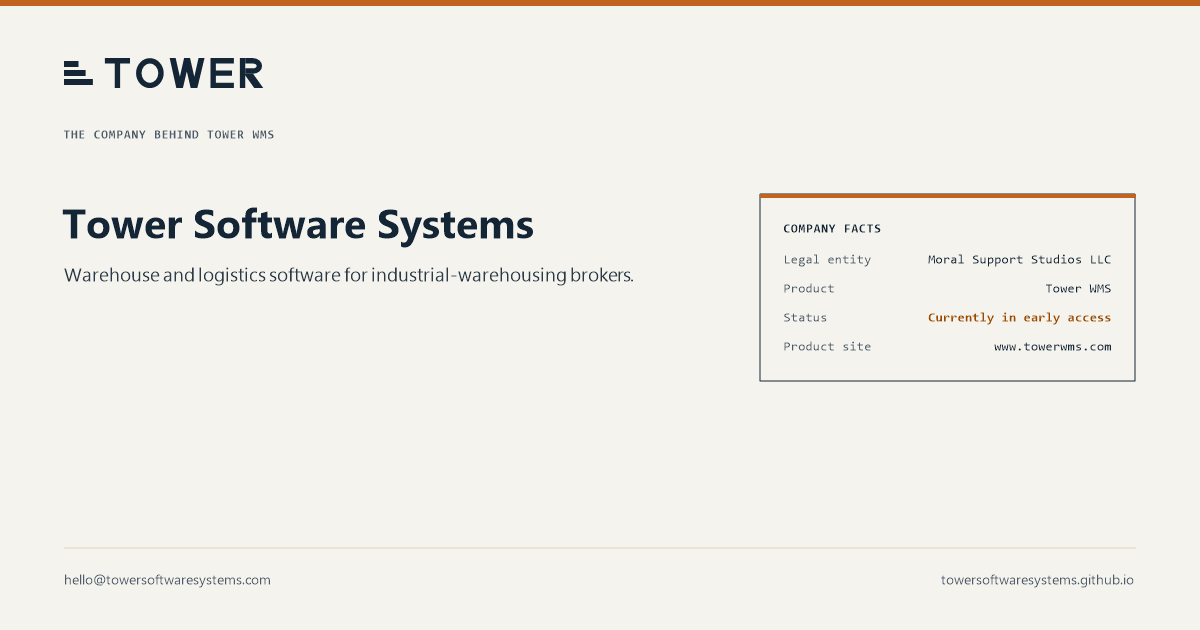
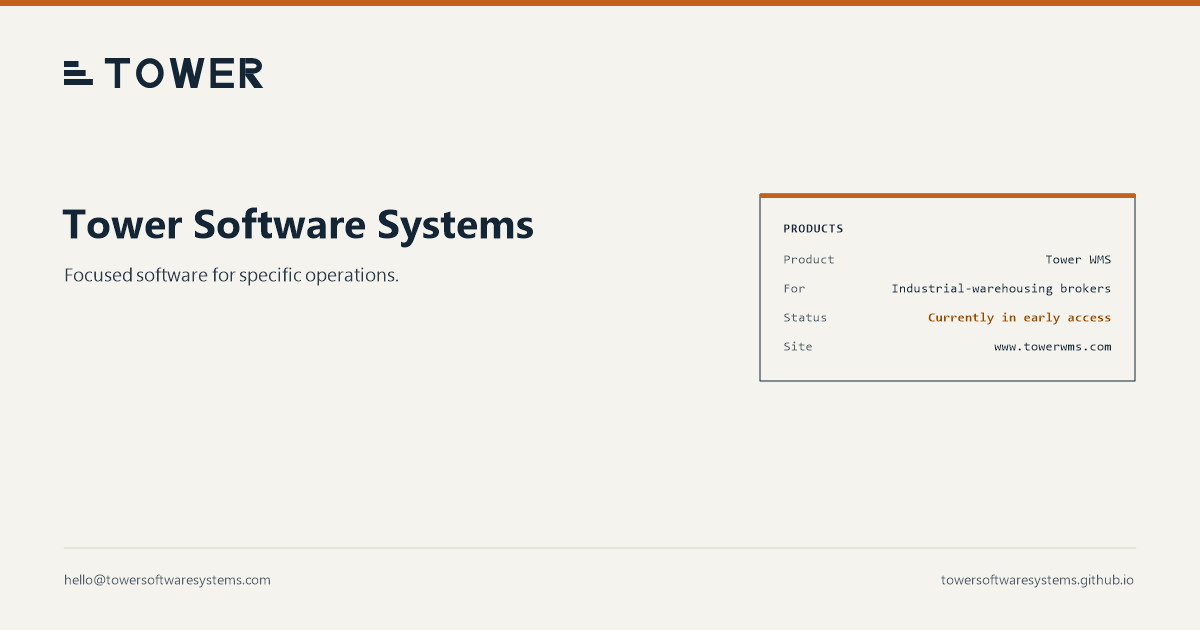
Make the site the umbrella for the Tower products
The page now leads with the company and lists its products, rather than
introducing the company as the legal wrapper of one product.

- Hero: the company name, the company line "Focused software for specific
  operations." and a note that each product has its own site. The legal-entity
  line moves to the footer only (it was already there).
- The hero record becomes a Products card (product, audience, status, site),
  and "What we make" becomes a Products section with one entry per product in
  the house object style. Tower WMS keeps its positioning line, its system-of-
  record sentence, its status and its link; the workflow detail, the "not"
  block and the pricing and Order Form wording stay on www.towerwms.com.
- Title, descriptions, image alt text and the sharing card drop "The company
  behind Tower WMS" and the legal-entity row; og.png is regenerated.
- AGENTS.md gains the umbrella rules, the claim inventory is rewritten for the
  new page, and the 404 lede no longer calls Tower WMS "its product".

Checks: the accessibility script's expected home-page title changes with the
title itself, and the contrast-pair notes in scripts/validate.mjs name the new
selectors. No threshold or rule changed.

diff --git a/site/index.html b/site/index.html
@@ -3,8 +3,8 @@
   <head>
     <meta charset="UTF-8">
     <meta name="viewport" content="width=device-width, initial-scale=1.0">
-    <title>Tower Software Systems | The company behind Tower WMS</title>
-    <meta name="description" content="Tower Software Systems, a trade name of Moral Support Studios LLC, makes Tower WMS for industrial-warehousing brokers. Tower WMS is currently in early access.">
+    <title>Tower Software Systems | Focused software for specific operations</title>
+    <meta name="description" content="Tower Software Systems makes focused software for specific operations. Tower WMS, for industrial-warehousing brokers, is currently in early access.">
     <meta name="theme-color" content="#f5f3ed">
     <meta name="color-scheme" content="light">
     <meta name="robots" content="index,follow">
@@ -12,18 +12,18 @@
     <link rel="icon" href="/favicon.svg" type="image/svg+xml">
     <meta property="og:type" content="website">
     <meta property="og:site_name" content="Tower Software Systems">
-    <meta property="og:title" content="Tower Software Systems | The company behind Tower WMS">
-    <meta property="og:description" content="The company behind Tower WMS, software for industrial-warehousing brokers. Tower WMS is currently in early access.">
+    <meta property="og:title" content="Tower Software Systems | Focused software for specific operations">
+    <meta property="og:description" content="Focused software for specific operations. Tower WMS, for industrial-warehousing brokers, is currently in early access.">
     <meta property="og:url" content="https://towersoftwaresystems.github.io/">
     <meta property="og:image" content="https://towersoftwaresystems.github.io/og.png">
     <meta property="og:image:width" content="1200">
     <meta property="og:image:height" content="630">
-    <meta property="og:image:alt" content="Tower Software Systems, the company behind Tower WMS. Warehouse and logistics software for industrial-warehousing brokers. Legal entity: Moral Support Studios LLC. Tower WMS is currently in early access.">
+    <meta property="og:image:alt" content="Tower Software Systems: focused software for specific operations. Products: Tower WMS, for industrial-warehousing brokers, currently in early access, at www.towerwms.com.">
     <meta name="twitter:card" content="summary_large_image">
-    <meta name="twitter:title" content="Tower Software Systems | The company behind Tower WMS">
-    <meta name="twitter:description" content="The company behind Tower WMS, software for industrial-warehousing brokers. Tower WMS is currently in early access.">
+    <meta name="twitter:title" content="Tower Software Systems | Focused software for specific operations">
+    <meta name="twitter:description" content="Focused software for specific operations. Tower WMS, for industrial-warehousing brokers, is currently in early access.">
     <meta name="twitter:image" content="https://towersoftwaresystems.github.io/og.png">
-    <meta name="twitter:image:alt" content="Tower Software Systems, the company behind Tower WMS. Warehouse and logistics software for industrial-warehousing brokers. Legal entity: Moral Support Studios LLC. Tower WMS is currently in early access.">
+    <meta name="twitter:image:alt" content="Tower Software Systems: focused software for specific operations. Products: Tower WMS, for industrial-warehousing brokers, currently in early access, at www.towerwms.com.">
     <link rel="stylesheet" href="/styles.css">
   </head>
   <body>
@@ -50,7 +50,7 @@
           <svg class="lockup" viewBox="0 0 664 100" role="img" aria-label="Tower Software Systems"><use href="#tower-lockup"></use></svg>
         </a>
         <nav class="site-nav" aria-label="Primary">
-          <a href="#product">What we make</a>
+          <a href="#products">Products</a>
           <a href="#contact">Contact</a>
         </nav>
       </div>
@@ -60,47 +60,38 @@
       <section class="section hero" id="company" aria-labelledby="hero-title">
         <div class="shell hero-grid">
           <div class="hero-copy">
-            <p class="label">The company behind Tower WMS</p>
             <h1 id="hero-title">Tower Software Systems</h1>
-            <p class="lede">Warehouse and logistics software for industrial-warehousing brokers.</p>
-            <p class="measure hero-legal">Tower Software Systems is a trade name of Moral Support Studios LLC, a Missouri limited liability company. Tower WMS is a product of Tower Software Systems.</p>
-            <p class="cta-row"><a class="button" href="https://www.towerwms.com/">Go to www.towerwms.com</a></p>
+            <p class="lede">Focused software for specific operations.</p>
+            <p class="measure">Each Tower product has its own site, which holds its details and how to get started.</p>
           </div>
 
           <figure class="artifact record">
-            <figcaption class="artifact-head"><span class="label">Company facts</span></figcaption>
+            <figcaption class="artifact-head"><span class="label">Products</span></figcaption>
             <dl class="artifact-body">
               <div><dt>Product</dt><dd>Tower WMS</dd></div>
+              <div><dt>For</dt><dd>Industrial-warehousing brokers</dd></div>
               <div><dt>Status</dt><dd class="record-status">Currently in early access</dd></div>
-              <div><dt>Product site</dt><dd><a href="https://www.towerwms.com/">www.towerwms.com</a></dd></div>
-              <div><dt>Email</dt><dd><a href="mailto:hello@towersoftwaresystems.com">hello@towersoftwaresystems.com</a></dd></div>
-              <div><dt>GitHub</dt><dd><a href="https://github.com/TowerSoftwareSystems" aria-label="TowerSoftwareSystems on GitHub">TowerSoftwareSystems</a></dd></div>
+              <div><dt>Site</dt><dd><a href="https://www.towerwms.com/">www.towerwms.com</a></dd></div>
             </dl>
-            <p class="meta record-note">Writing starts a conversation only. It does not create an account or guarantee access.</p>
           </figure>
         </div>
       </section>
 
-      <section class="section product" id="product" aria-labelledby="product-title">
+      <section class="section product" id="products" aria-labelledby="products-title">
         <div class="shell">
           <p class="label">What we make</p>
-          <h2 id="product-title">Tower WMS</h2>
-          <p class="lede measure">Marked cargo in. Ticketed cargo out. Billable days in between.</p>
-          <p class="measure">Tower WMS is the system of record for industrial-warehousing brokers: receiving, storage-day billing and release control for project cargo — ingots, reels, bundles, heat-numbered stock.</p>
-          <p class="measure">Five moments, one record: receive, store, clock, release, bill. Each step works from the record the steps before it wrote, and a person reviews billing before invoice handoff.</p>
+          <h2 id="products-title">Products</h2>
 
-          <div class="not-block">
-            <h3>What Tower WMS is not</h3>
-            <p>Not pick-and-pack. Not parcel. Not a TMS. If the cargo doesn't carry marks or heat numbers, Tower WMS is the wrong tool.</p>
-          </div>
-
-          <div class="status-block" id="status">
-            <p class="label">Status</p>
-            <h3 id="status-title">Currently in early access.</h3>
-            <p>Tower WMS is in early access: a new product, still changing, with no general-availability date set. Its prices are published at <a href="https://www.towerwms.com/pricing/">www.towerwms.com/pricing/</a>, and a subscription starts with a signed Order Form.</p>
-          </div>
-
-          <p class="measure product-route">The workflow and interface captures are on the product’s own site, <a href="https://www.towerwms.com/">www.towerwms.com</a>. Getting started with Tower WMS happens there too.</p>
+          <article class="artifact product-entry" aria-labelledby="tower-wms-title">
+            <div class="product-entry-head">
+              <h3 id="tower-wms-title">Tower WMS</h3>
+              <p class="label entry-status">Currently in early access</p>
+            </div>
+            <p class="lede measure">Marked cargo in. Ticketed cargo out. Billable days in between.</p>
+            <p class="measure">Tower WMS is the system of record for industrial-warehousing brokers: receiving, storage-day billing and release control for project cargo — ingots, reels, bundles, heat-numbered stock.</p>
+            <p class="measure">Its workflow, interface captures, prices and how to get started are on its own site.</p>
+            <p class="cta-row"><a class="button" href="https://www.towerwms.com/">Go to www.towerwms.com</a></p>
+          </article>
         </div>
       </section>
 

diff --git a/site/styles.css b/site/styles.css
@@ -284,10 +284,6 @@ li {
   align-items: center;
 }
 
-.hero-copy .label {
-  margin-bottom: 24px;
-}
-
 .hero-copy h1 {
   margin-bottom: 24px;
 }
@@ -295,10 +291,6 @@ li {
 .hero-copy .lede {
   max-width: 68ch;
   margin-bottom: 24px;
-}
-
-.hero-legal {
-  margin-bottom: 32px;
 }
 
 .button {
@@ -374,61 +366,31 @@ li {
   font-weight: 700;
 }
 
-/* What we make ----------------------------------------------------------- */
+/* Products -------------------------------------------------------------- */
 
 .product {
   background: var(--panel);
   border-block: 1px solid var(--hairline);
 }
 
-/* Here the lede introduces two paragraphs rather than a list or a figure, so it sits
-   closer to them than the house 48px. The lede is itself a .measure, so the rule below
-   also gives the first paragraph a 16px margin-top, which collapses into these 24px. */
-.section.product > .shell > .lede {
-  margin-bottom: 24px;
-}
-
-.product .measure + .measure {
-  margin-top: 16px;
-}
-
-.not-block {
-  margin-top: 48px;
+/* One entry per product, in the house object style. A second product is a second
+   .product-entry, spaced from the first by the same margin-top. */
+.product-entry {
+  margin-top: 32px;
   padding: 32px;
-  border: 1px solid var(--ink);
-  border-radius: 2px;
 }
 
-.not-block h3 {
-  margin-bottom: 16px;
+.product-entry-head {
+  display: flex;
+  flex-wrap: wrap;
+  align-items: baseline;
+  justify-content: space-between;
+  gap: 8px 24px;
 }
 
-.not-block p {
-  max-width: 68ch;
-  color: var(--ink);
-}
-
-.status-block {
-  margin-top: 32px;
-  padding: 24px;
-  background: var(--paper);
-  border-left: 4px solid var(--orange);
-}
-
-.status-block .label {
-  margin-bottom: 16px;
-}
-
-.status-block h3 {
-  margin-bottom: 16px;
-}
-
-.status-block p {
-  max-width: 68ch;
-}
-
-.product-route {
-  margin-top: 32px;
+/* The entry's status, in the record's one status accent: --orange-text at text size. */
+.product-entry .entry-status {
+  color: var(--orange-text);
 }
 
 /* Contact ---------------------------------------------------------------- */
@@ -490,7 +452,7 @@ li {
     gap: 48px;
   }
 
-  .artifact {
+  .record {
     max-width: 360px;
   }
 }
@@ -512,7 +474,7 @@ li {
     margin-top: 48px;
   }
 
-  .not-block {
+  .product-entry {
     padding: 24px;
   }
 

diff --git a/site/404.html b/site/404.html
@@ -45,7 +45,7 @@
         <div class="shell">
           <p class="label">Error 404 — page not found</p>
           <h1 id="page-title">That page is not here.</h1>
-          <p class="lede measure">The address may be mistyped, or the page may never have existed. This site is a single page about Tower Software Systems and its product, Tower WMS, which is currently in early access.</p>
+          <p class="lede measure">The address may be mistyped, or the page may never have existed. This site is a single page about Tower Software Systems and what it makes. Tower WMS is currently in early access.</p>
           <div class="prose">
             <h2>Where to go instead</h2>
             <ul>

diff --git a/docs/claim-inventory.md b/docs/claim-inventory.md
@@ -4,27 +4,23 @@ Every factual statement on https://towersoftwaresystems.github.io/ and the publi
 
 | # | Claim on the site (where) | Public citation |
 |---|---|---|
-| 1 | "Warehouse and logistics software for industrial-warehousing brokers." (home hero lede; sharing card lede; "software for industrial-warehousing brokers" in the og/twitter descriptions; the full lede in the og/twitter image alt text) | GitHub organization profile, github.com/TowerSoftwareSystems: description "Warehouse and logistics software for industrial-warehousing brokers" |
-| 2 | "Tower Software Systems is a trade name of Moral Support Studios LLC, a Missouri limited liability company." (home hero; footer on both pages; meta description; sharing card "Legal entity" row and image alt text) | Tower WMS website (www.towerwms.com) Terms page: "Tower WMS is operated by Tower Software Systems, a trade name of Moral Support Studios LLC, a Missouri limited liability company." Established fact: Tower Software Systems is a registered fictitious (trade) name of Moral Support Studios LLC |
-| 3 | "Tower WMS is a product of Tower Software Systems." Also its derivatives: "The company behind Tower WMS" (hero label, page title, sharing card); the "Product: Tower WMS" fact row; "makes Tower WMS" (meta description) | Tower WMS website (www.towerwms.com) footer, every page: "Tower WMS is a product of Tower Software Systems" |
-| 4 | "Currently in early access" (Company facts "Status" row; status heading; 404 lede; meta and sharing descriptions; sharing card) | Tower WMS website (www.towerwms.com) home page, Status: "Currently in early access." |
-| 5 | "Tower WMS is in early access: a new product, still changing, with no general-availability date set." (status block) | Tower WMS website (www.towerwms.com) home page, Status section, verbatim |
-| 6 | "Its prices are published at www.towerwms.com/pricing/, and a subscription starts with a signed Order Form." (status block; 404 "Tower WMS prices.") | Tower WMS website (www.towerwms.com) home page, Status: "Prices are published, and a subscription starts with a signed Order Form."; Pricing page, www.towerwms.com/pricing/ |
-| 7 | "Marked cargo in. Ticketed cargo out. Billable days in between." (product lede) | Tower WMS website (www.towerwms.com) home page headline |
-| 8 | "Tower WMS is the system of record for industrial-warehousing brokers: receiving, storage-day billing and release control for project cargo — ingots, reels, bundles, heat-numbered stock." (What we make) | Tower WMS website (www.towerwms.com) home page, hero |
-| 9 | "Five moments, one record: receive, store, clock, release, bill." (What we make) | Tower WMS website (www.towerwms.com) home page, Workflow: heading "Five moments, one record." and its five step names |
-| 10 | "Each step works from the record the steps before it wrote" (What we make) | Tower WMS website (www.towerwms.com) home page, Workflow |
-| 11 | "a person reviews billing before invoice handoff" (What we make; a paraphrase in the active voice) | Tower WMS website (www.towerwms.com) home page, Workflow, Bill: "…then reviewed by a person before invoice handoff." |
-| 12 | "Not pick-and-pack. Not parcel. Not a TMS. If the cargo doesn't carry marks or heat numbers, Tower WMS is the wrong tool." (What Tower WMS is not) | Tower WMS website (www.towerwms.com) home page, Fit, "What Tower WMS is not" |
-| 13 | "The workflow and interface captures are on the product’s own site, www.towerwms.com." (What we make; 404 "Where to go instead") | Tower WMS website (www.towerwms.com) home page Workflow and Evidence sections |
-| 14 | "Getting started with Tower WMS happens there too." and "Use “Get started” on www.towerwms.com. It opens an email with a few questions about your operation." (What we make; Contact; 404 "how to get started") | Tower WMS website (www.towerwms.com) home page, hero: "Get started" … "Opens an email … with a few questions about your operation." |
-| 15 | Company email hello@towersoftwaresystems.com (Company facts; Contact; footer; 404; sharing card) | GitHub organization profile email: hello@towersoftwaresystems.com |
-| 16 | "Writing starts a conversation only. It does not create an account or guarantee access." (Company facts) and "Writing to this address starts a conversation only. It does not create an account, place an order, create an agreement, or guarantee access." (Contact; 404 Contact) | Wording from the Tower WMS website (www.towerwms.com) Terms page, "Getting-started messages", applied to this site's address. Established fact: email to the company creates no account, order, agreement or access |
-| 17 | support@towerwms.com is for "Existing Tower WMS customers and users" (Contact; 404) | Tower WMS website (www.towerwms.com) Terms page: "support@towerwms.com remains reserved for existing customers and users." |
-| 18 | Product site www.towerwms.com (Company facts; hero button; product-route paragraph; Contact getting-started row; footer; 404 list; sharing card "Product site" row) | Established fact: the Tower WMS website is https://www.towerwms.com/ |
-| 19 | GitHub: TowerSoftwareSystems (Company facts; footer) | github.com/TowerSoftwareSystems |
-| 20 | "© 2026 Tower Software Systems" (footer) | Tower WMS website (www.towerwms.com) footer: "© 2026 Tower Software Systems" |
-| 21 | "This site has no accounts, sets no cookies, and runs no analytics or tracking scripts." (footer) | Established fact: this site's pages contain no forms, scripts or third-party requests, checked by `scripts/validate.mjs` in this repository; GitHub Pages responses set no cookies (checked 2026-10-11) |
-| 22 | "It is hosted on GitHub Pages" (footer) | Established fact: served by GitHub Pages at towersoftwaresystems.github.io |
-| 23 | "GitHub logs and stores each visitor’s IP address for security purposes" (footer) | GitHub Docs, "What is GitHub Pages?", Data collection section (checked 2026-10-11) |
-| 24 | "This site is a single page about Tower Software Systems and its product, Tower WMS…" (404) | Established fact: this site has one content page and an error page |
+| 1 | "Focused software for specific operations." (home hero lede; page title; meta, og and twitter descriptions; sharing card lede; og/twitter image alt text) | Established fact: the company's description of what it makes. Its current product is software for one specific operation: Tower WMS website (www.towerwms.com) home page, hero, "the system of record for industrial-warehousing brokers" |
+| 2 | "Each Tower product has its own site, which holds its details and how to get started." (home hero) | Established fact: Tower WMS, the company's current product, has its own site, https://www.towerwms.com/, with its workflow, interface captures, prices and "Get started" |
+| 3 | "Tower Software Systems is a trade name of Moral Support Studios LLC, a Missouri limited liability company." (footer on both pages) | Tower WMS website (www.towerwms.com) Terms page: "Tower WMS is operated by Tower Software Systems, a trade name of Moral Support Studios LLC, a Missouri limited liability company." Established fact: Tower Software Systems is a registered fictitious (trade) name of Moral Support Studios LLC |
+| 4 | "Tower WMS is a product of Tower Software Systems." (footer on both pages). Also its derivatives: the "Product: Tower WMS" row of the Products card and the sharing card; the Products section's Tower WMS entry; "Products: Tower WMS" (og/twitter image alt text) | Tower WMS website (www.towerwms.com) footer, every page: "Tower WMS is a product of Tower Software Systems" |
+| 5 | Tower WMS is "For: Industrial-warehousing brokers" (Products card and sharing card "For" row; "Tower WMS, for industrial-warehousing brokers" in the meta, og and twitter descriptions and the og/twitter image alt text) | Tower WMS website (www.towerwms.com) home page, hero: "the system of record for industrial-warehousing brokers" |
+| 6 | "Currently in early access" (Products card "Status" row; Tower WMS entry status; 404 lede; meta, og and twitter descriptions; og/twitter image alt text; sharing card) | Tower WMS website (www.towerwms.com) home page, Status: "Currently in early access." |
+| 7 | "Marked cargo in. Ticketed cargo out. Billable days in between." (Tower WMS entry lede) | Tower WMS website (www.towerwms.com) home page headline |
+| 8 | "Tower WMS is the system of record for industrial-warehousing brokers: receiving, storage-day billing and release control for project cargo — ingots, reels, bundles, heat-numbered stock." (Tower WMS entry) | Tower WMS website (www.towerwms.com) home page, hero |
+| 9 | "Its workflow, interface captures, prices and how to get started are on its own site." (Tower WMS entry) and the 404 "Where to go instead" list: "Tower WMS, its workflow, interface captures, and how to get started" and "Tower WMS prices" | Tower WMS website (www.towerwms.com) home page Workflow and Evidence sections, and hero "Get started"; Pricing page, www.towerwms.com/pricing/ |
+| 10 | "Use “Get started” on www.towerwms.com. It opens an email with a few questions about your operation." (Contact) | Tower WMS website (www.towerwms.com) home page, hero: "Get started" … "Opens an email … with a few questions about your operation." |
+| 11 | Company email hello@towersoftwaresystems.com (Contact; footer; 404; sharing card) | GitHub organization profile email: hello@towersoftwaresystems.com |
+| 12 | "Writing to this address starts a conversation only. It does not create an account, place an order, create an agreement, or guarantee access." (Contact; 404 Contact) | Wording from the Tower WMS website (www.towerwms.com) Terms page, "Getting-started messages", applied to this site's address. Established fact: email to the company creates no account, order, agreement or access |
+| 13 | support@towerwms.com is for "Existing Tower WMS customers and users" (Contact; 404) | Tower WMS website (www.towerwms.com) Terms page: "support@towerwms.com remains reserved for existing customers and users." |
+| 14 | Product site www.towerwms.com (Products card and sharing card "Site" row; Tower WMS entry button; Contact getting-started row; footer; 404 list) | Established fact: the Tower WMS website is https://www.towerwms.com/ |
+| 15 | GitHub: TowerSoftwareSystems (footer) | github.com/TowerSoftwareSystems |
+| 16 | "© 2026 Tower Software Systems" (footer) | Tower WMS website (www.towerwms.com) footer: "© 2026 Tower Software Systems" |
+| 17 | "This site has no accounts, sets no cookies, and runs no analytics or tracking scripts." (footer) | Established fact: this site's pages contain no forms, scripts or third-party requests, checked by `scripts/validate.mjs` in this repository; GitHub Pages responses set no cookies (checked 2026-10-11) |
+| 18 | "It is hosted on GitHub Pages" (footer) | Established fact: served by GitHub Pages at towersoftwaresystems.github.io |
+| 19 | "GitHub logs and stores each visitor’s IP address for security purposes" (footer) | GitHub Docs, "What is GitHub Pages?", Data collection section (checked 2026-10-11) |
+| 20 | "This site is a single page about Tower Software Systems and what it makes." (404) | Established fact: this site has one content page and an error page |

diff --git a/AGENTS.md b/AGENTS.md
@@ -4,7 +4,8 @@ These rules apply to every change in this repository, whoever makes it. `npm run
 
 ## What this is
 
-- The public website of Tower Software Systems: one content page (`site/index.html`) and an error page (`site/404.html`). Its job is to tell someone who meets the name who the company is, that it is real, what it makes, where to write, and where the product lives.
+- The public website of Tower Software Systems: one content page (`site/index.html`) and an error page (`site/404.html`). Its job is to tell someone who meets the name who the company is, that it is real, what it makes, where to write, and where each product lives.
+- It is the umbrella for the Tower products. The page leads with the company; each product gets a row in the hero's Products card and an entry in the Products section, both linking to that product's own site.
 - `site/` is the only folder GitHub Pages serves. Nothing outside it is ever deployed.
 - Nothing is pushed, deployed, or changed on GitHub (repository, Pages or organization settings), and no DNS record is changed, without the owner's approval.
 - Changes reach `main` only by pull request with a passing `check` job; the ruleset on `main` enforces it. Merging deploys.
@@ -15,7 +16,7 @@ Nothing internal goes anywhere in it: not in pages, README, docs, code comments,
 
 ## Product claims
 
-- The Tower WMS website's own guardrails are the authority for anything said about Tower WMS. This site says less than www.towerwms.com, never more and never something different. If a product statement here disagrees with www.towerwms.com, this site is wrong.
+- Each product's own site and its guardrails are the authority for anything said about that product; for Tower WMS that is www.towerwms.com. This site says less than the product's site, never more and never something different. If a product statement here disagrees with it, this site is wrong.
 - Describe Tower WMS exactly as "currently in early access". Never state or imply general availability or production-readiness, a launch or general-availability date, a customer count, current customer use, or any customer name or hint. No testimonials, logos, endorsements or case studies.
 - Promise nothing: no access, timing, uptime, availability, backups, retention, support levels, response times, certifications, security guarantees, compliance, refunds or savings.
 - No prices: no price, dollar figure, tier name, implementation fee or fee language anywhere, including `og.png`. Link https://www.towerwms.com/pricing/ instead.
@@ -29,6 +30,9 @@ Nothing internal goes anywhere in it: not in pages, README, docs, code comments,
 ## Company facts
 
 - Allowed: Tower Software Systems is a trade name of Moral Support Studios LLC, a Missouri limited liability company. Tower WMS is a product of Tower Software Systems.
+- Lead with the company, not its legal structure: the legal-entity line appears in the footer only, never in the hero, the title, the descriptions or the sharing card.
+- The company line is "Focused software for specific operations." It describes the company, so it stays true of every product; never narrow it to one product's market.
+- Name only products that are public. Never state or hint at unannounced or upcoming products.
 - Not allowed: team size or headcount, founder or personal names, founding year, registration date or number, address or city, funding, partners, years of experience.
 - Never claim or hint at attorney review of anything.
 

diff --git a/README.md b/README.md
@@ -1,6 +1,6 @@
 # TowerSoftwareSystems.github.io
 
-Source for https://towersoftwaresystems.github.io/, the website of Tower Software Systems, the company behind Tower WMS (https://www.towerwms.com/). Static HTML and one stylesheet: no scripts, forms, cookies, analytics or tracking. `node scripts/validate.mjs` checks the pages. `docs/claim-inventory.md` lists every factual statement on the site and its public source.
+Source for https://towersoftwaresystems.github.io/, the website of Tower Software Systems and the umbrella for its products, currently Tower WMS (https://www.towerwms.com/). Static HTML and one stylesheet: no scripts, forms, cookies, analytics or tracking. `node scripts/validate.mjs` checks the pages. `docs/claim-inventory.md` lists every factual statement on the site and its public source.
 
 ## Repository layout
 
